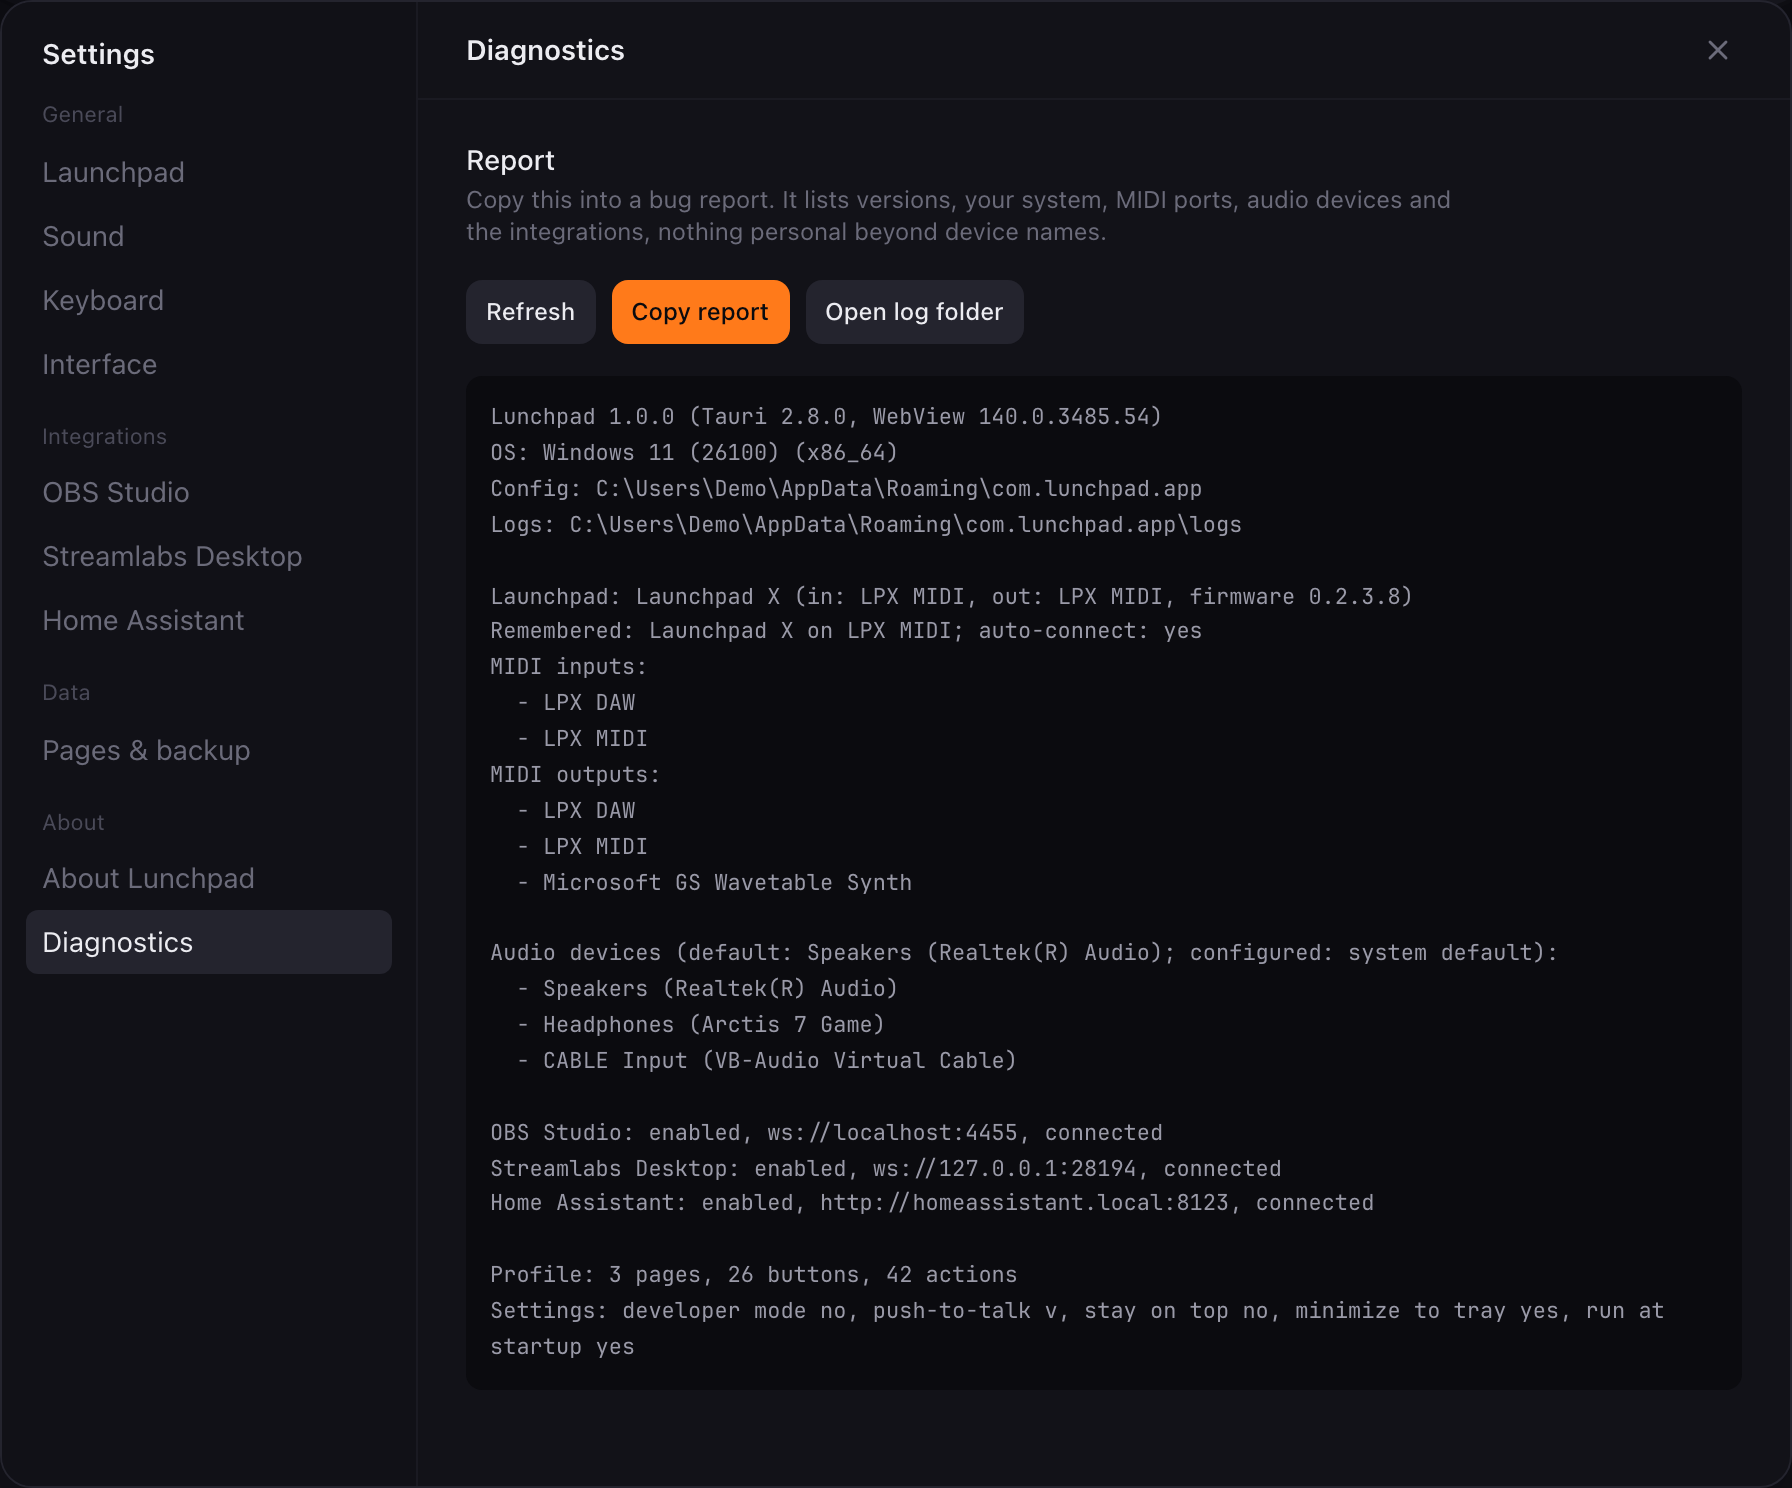
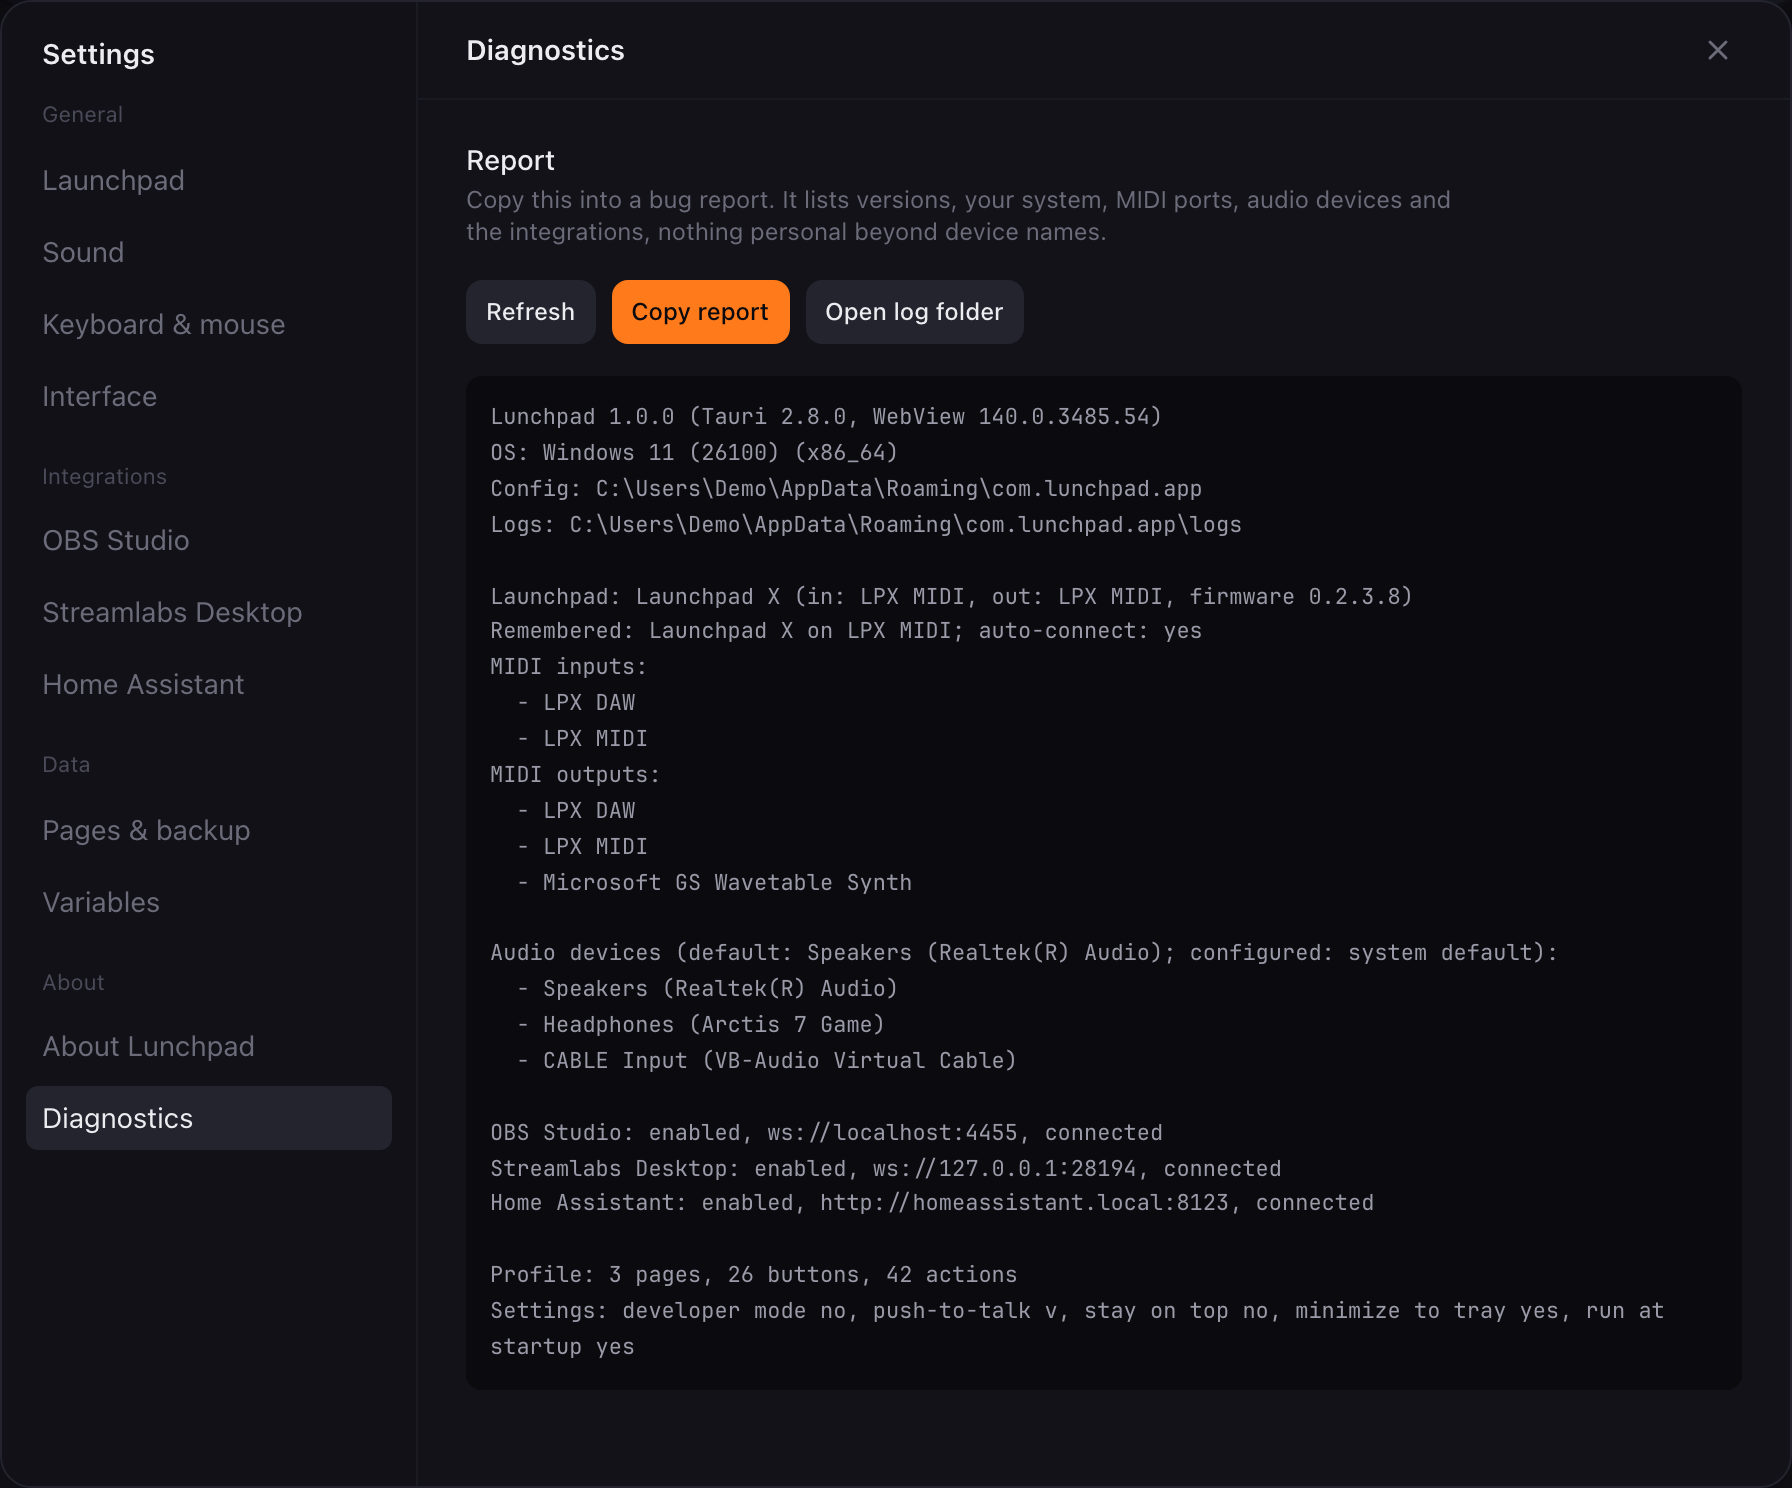
System audio per device, Variables tab, Out of sight panel
The action now targets a named device or the system default; the settings
gained a Variables tab and Keyboard is now Keyboard & mouse; off-grid
buttons can be dragged back from a panel. Screenshots regenerated.

diff --git a/scripts/screenshots/mock/backend.ts b/scripts/screenshots/mock/backend.ts
@@ -5,7 +5,7 @@
 // A screenshot scenario tweaks the start state through
 // `window.__LUNCHPAD_SCENARIO__` (set by capture.ts before the page loads).
 import type { Button, DeviceState, Fader, LaunchpadModel, Page, Profile, Settings } from "@app/lib/api";
-import { AUDIO, DISCOVERED, FILTERS, INPUTS, MODELS, VOICES, demoHomeAssistant, demoObs, demoProfile, demoSettings, demoSlobs, layoutFor, peaks } from "./fixtures";
+import { AUDIO, C, DISCOVERED, FILTERS, INPUTS, MODELS, VOICES, button, demoHomeAssistant, demoObs, demoProfile, demoSettings, demoSlobs, layoutFor, peaks } from "./fixtures";
 
 export interface Scenario {
   /** "picker" starts without a connected Launchpad */
@@ -25,6 +25,8 @@ export interface Scenario {
   running?: [number, number][];
   /** what "Run test" in the script editor reports */
   scriptResult?: string;
+  /** put two buttons on pads the connected Launchpad does not have (the "Out of sight" panel) */
+  outside?: boolean;
 }
 
 /** Top-left pad of the grid (column 1, row 8): where scenarios put their button. */
@@ -62,8 +64,13 @@ if (scenario.focus) {
   page.buttons.push({ ...(base ?? {}), down: [], up: [], hold: [], ...(base ? {} : { look: { type: "text", caption: "", size: 15, face: "sans", color: "#ffffff" }, color: { mode: "palette", index: 9 }, activeColor: null, loop: false, holdMs: 500, holdWait: true, stateLink: null }), ...scenario.focus, ...FOCUS_PAD } as Page["buttons"][number]);
 }
 
+if (scenario.outside) {
+  // Pads 10 and 11 of a Launchpad Pro: no pad for them on the Launchpad X of the demo data.
+  profile.pages[0].buttons.push({ ...button("Cue", C.violet), x: 9, y: 3 }, { ...button("Tempo", C.teal), x: 4, y: 9 });
+}
+
 const connected = scenario.connected ?? true;
-const variables: Record<string, string> = scenario.variables ?? { deaths: "3", lastScene: "Gameplay" };
+const variables: Record<string, string> = scenario.variables ?? { deaths: "3", lastScene: "Gameplay", "fader.volume": "75" };
 
 let device: DeviceState =
   scenario.view === "picker"
@@ -313,6 +320,14 @@ export function handle(cmd: string, a: Args): unknown {
       return { result: scenario.scriptResult ?? "ok", locals: {}, globals: {}, elapsedMs: 3 };
     case "get_variables":
       return variables;
+    case "delete_variables":
+      (a.names as string[]).forEach((name) => delete variables[name]);
+      return variables;
+    case "clear_variables":
+      Object.keys(variables).forEach((name) => delete variables[name]);
+      return variables;
+    case "prune_fader_variables":
+      return 0;
     case "get_running_macros":
       return (scenario.running ?? []).map(([x, y], i) => ({ id: `run-${i}`, pageId: profile.activePage, x, y, list: "down", startedAtMs: Date.now() }));
     case "stop_all_macros":

diff --git a/scripts/screenshots/scenarios/app.ts b/scripts/screenshots/scenarios/app.ts
@@ -8,12 +8,13 @@ const act = (kind: ActionKind): Action => ({ id: `app-${Math.random().toString(3
 const settingsTabs: [string, string][] = [
   ["launchpad", "Launchpad"],
   ["sound", "Sound"],
-  ["keyboard", "Keyboard"],
+  ["keyboard", "Keyboard & mouse"],
   ["interface", "Interface"],
   ["obs", "OBS Studio"],
   ["slobs", "Streamlabs Desktop"],
   ["home-assistant", "Home Assistant"],
   ["pages", "Pages & backup"],
+  ["variables", "Variables"],
   ["about", "About Lunchpad"],
   ["diagnostics", "Diagnostics"],
 ];
@@ -38,6 +39,18 @@ export const appShots: Shot[] = [
       await pad(page, 1, 6).click({ button: "right" });
       await page.getByRole("menu").waitFor();
       await page.waitForTimeout(400);
+    },
+  },
+
+  {
+    name: "app/outside-panel",
+    viewport: WINDOW,
+    scenario: { outside: true },
+    run: async (page) => {
+      await page.getByRole("button", { name: "Show them" }).click();
+      // The notice has done its job once the panel is open; it would cover it.
+      await page.getByRole("button", { name: "Dismiss" }).first().click();
+      await settle(page, 700);
     },
   },
 

diff --git a/scripts/screenshots/scenarios/actions.ts b/scripts/screenshots/scenarios/actions.ts
@@ -66,7 +66,7 @@ export const actionShots: Shot[] = [
   // media
   shot("playSound", [sound("airhorn.wav", { volume: 0.9, start: 0.04, end: 0.72, outputDevice: "Headphones (Arctis 7 Game)", volumeFromVelocity: true })]),
   shot("textToSpeech", [act({ type: "textToSpeech", text: "Welcome to the stream! You are viewer number {{viewers}}.", voice: "aria", volume: 0.8 })]),
-  shot("setSystemVolume", [act({ type: "setSystemVolume", target: "output", mode: "set", volume: 35, volumeFrom: null })]),
+  shot("setSystemVolume", [act({ type: "setSystemVolume", target: "output", mode: "set", volume: 35, volumeFrom: null, device: "Headphones (Arctis 7 Game)" })]),
   shot("setAudioDevice", [act({ type: "setAudioDevice", target: "output", device: "Headphones (Arctis 7 Game)" })]),
   shot("stopAllSounds", [act({ type: "stopAllSounds" }), sound("drumroll.mp3")], { open: [] }),
 
